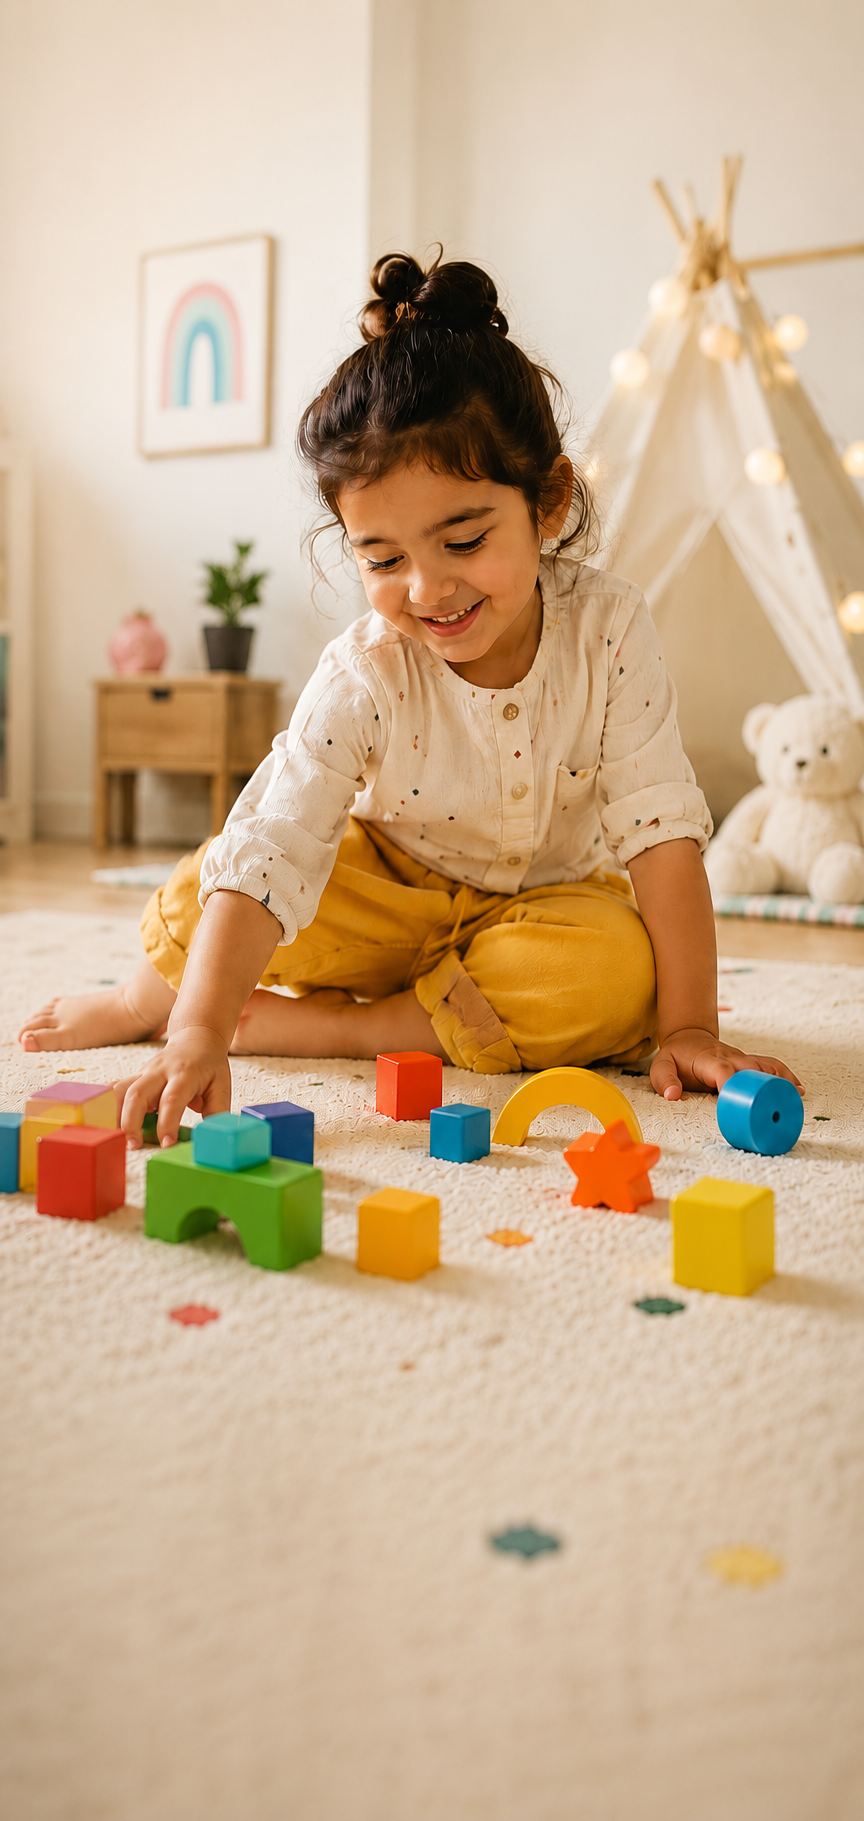
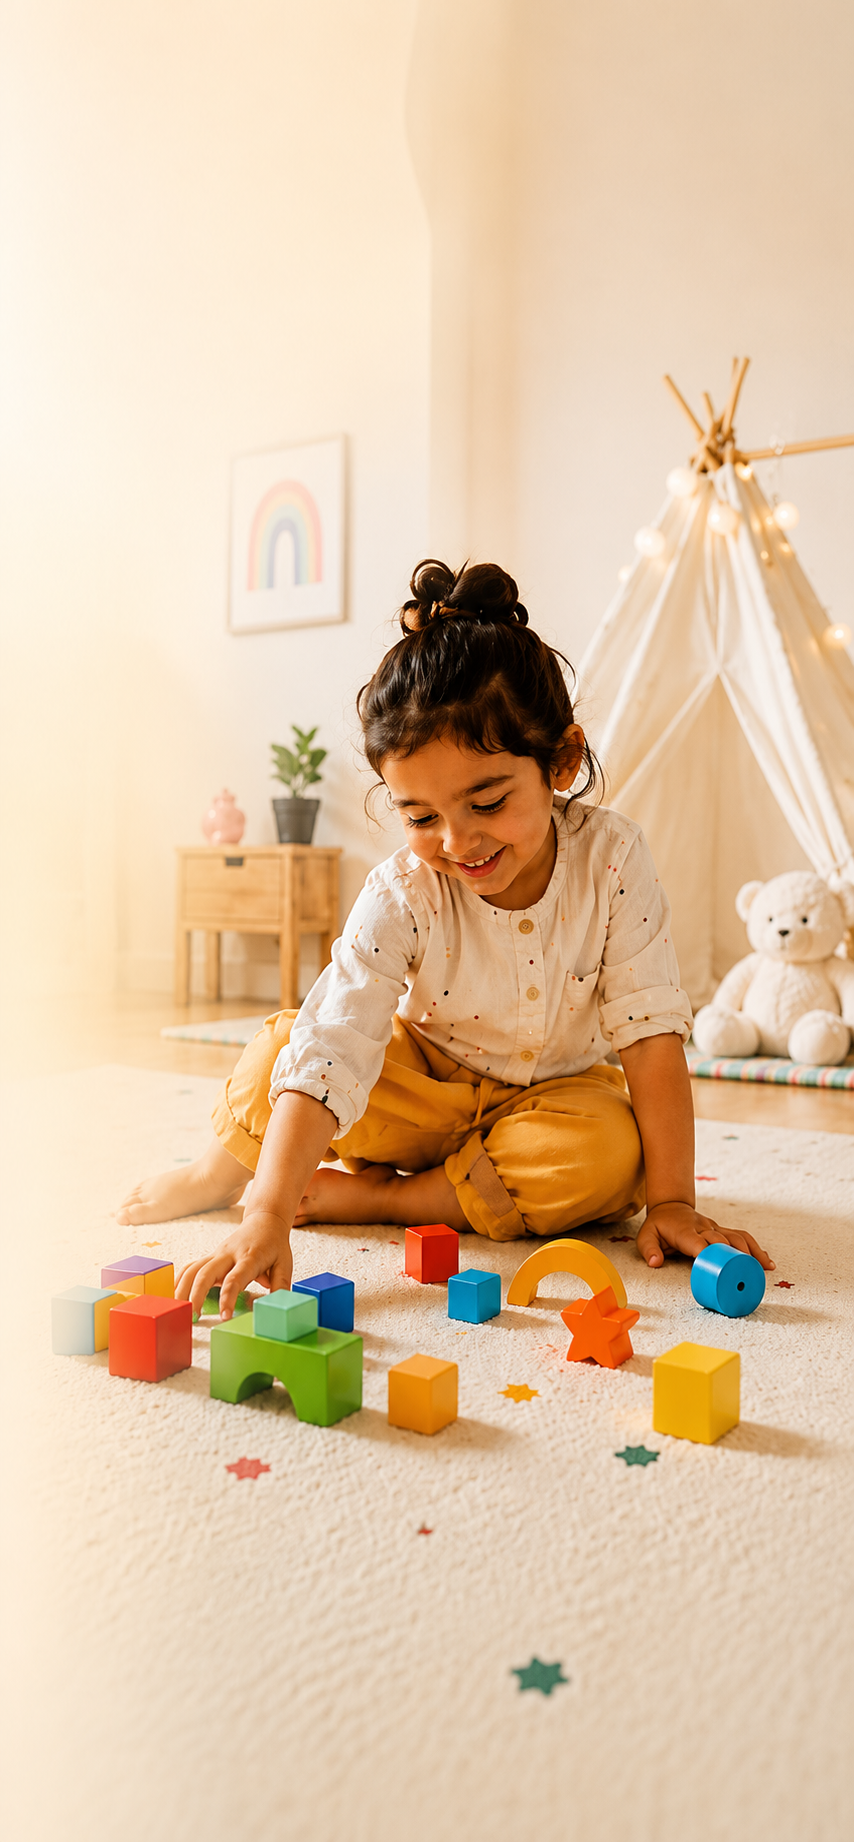
updated

diff --git a/src/components/HeroSection.tsx b/src/components/HeroSection.tsx
@@ -94,14 +94,14 @@ export default function HeroSection() {
             priority
             quality={95}
             sizes="100vw"
-            className="object-cover object-left object-[center_32%] mt-40  "
+            className="object-cover object-left object-[center_32%] mt-  "
           />
         </div>
 
         <div className="relative z-10 px-6 pb-8 pt-[4.75rem]">
           {/* Cream soft shadow — only behind text block (same feel as desktop) */}
           <div
-            className="pointer-events-none absolute inset-0 bg-[linear-gradient(180deg,#fffbf0_0%,#fffbf0_48%,rgba(255,251,240,0.94)_68%,rgba(255,251,240,0.72)_82%,rgba(255,251,240,0.28)_94%,transparent_100%)]"
+            className="pointer-events-none absolute inset-x-0 top-0 h-[78%] bg-[linear-gradient(180deg,rgba(255,251,240,0.8)_0%,rgba(255,251,240,0.8)_38%,rgba(255,251,240,0.7)_55%,rgba(255,251,240,0.45)_72%,rgba(255,251,240,0.15)_88%,transparent_100%)]"
             aria-hidden
           />
 
@@ -118,8 +118,8 @@ export default function HeroSection() {
           </div>
 
           <div className="mt-5 flex items-start justify-between gap-3">
-            <h1 className="font-heading min-w-0 flex-1 text-[3rem] font-extrabold leading-[1.02] tracking-tight text-[#1A1A1A]">
-              {headlineFirst}
+            <h1 className="font-heading min-w-0 flex-1 text-[2.4rem] font-extrabold leading-[1.05] tracking-tight text-[#1A1A1A]">
+              <span className="whitespace-nowrap">{headlineFirst}</span>
               <br />
               {headlineLast}
               <span className="text-kobbo-yellow">.</span>
@@ -133,17 +133,17 @@ export default function HeroSection() {
             />
           </div>
 
-          <p className="mt-4 max-w-[22rem] text-[15px] font-medium leading-relaxed text-[#3A3A3A]">
+          <p className="mt-4 max-w-[16.5rem] text-[13px] font-medium leading-snug text-[#3A3A3A]">
             {description}
           </p>
 
           <div className="mt-6">
             <Link
               href={primaryCta.href}
-              className="inline-flex min-h-10 items-center justify-center gap-2 rounded-full bg-kobbo-yellow px-7 py-2.5 text-sm font-bold text-[#1A1A1A] shadow-soft transition-transform active:scale-[0.98]"
+              className="inline-flex min-h-9 items-center justify-center gap-1.5 rounded-full bg-kobbo-yellow px-5 py-2 text-xs font-bold text-[#1A1A1A] shadow-soft transition-transform active:scale-[0.98]"
             >
               {primaryCta.label}
-              <ArrowRight className="h-4 w-4" strokeWidth={2.5} />
+              <ArrowRight className="h-3.5 w-3.5" strokeWidth={2.5} />
             </Link>
           </div>
 
